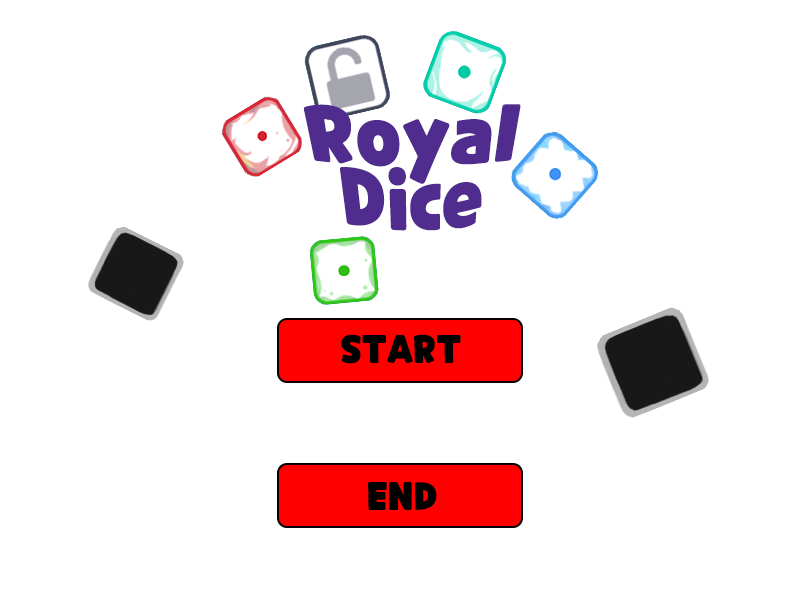
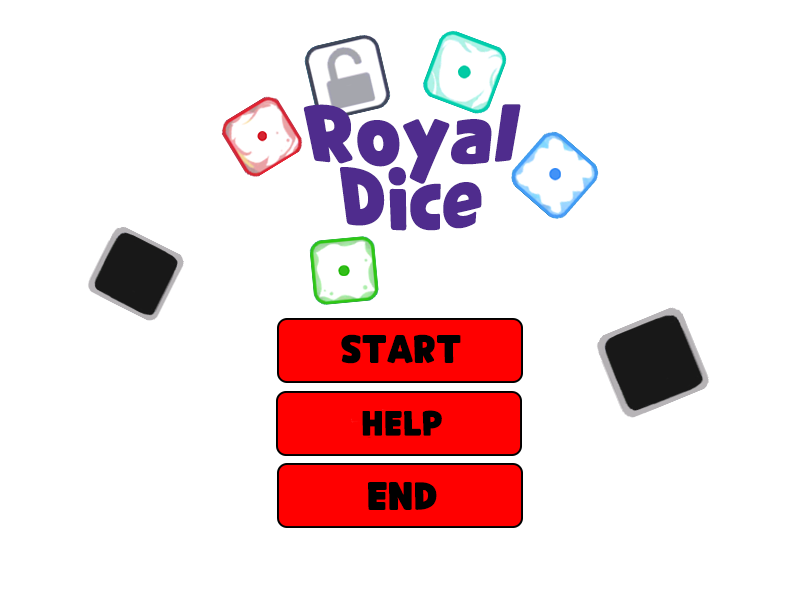
도움말 추가

Changed region(s): [[0.3438, 0.63, 0.6562, 0.78]]

diff --git a/2DGP/start_state.py b/2DGP/start_state.py
@@ -4,10 +4,13 @@ import main
 
 image = None
 music = None
+help_image = None
 time = 0
+draw_help = False
 
 def enter():
-    global image, music
+    global image, music, help_image
+    help_image = load_image('image\\help.png')
     image = load_image('image\\start_image.png')
     music = load_music('sound\\menu.mp3')
     music.set_volume(80)
@@ -31,18 +34,25 @@ def draw():
     global image
     clear_canvas()
     image.draw(400, 300)
+    if draw_help:
+        help_image.draw(400, 300)
     update_canvas()
     pass
 
 
 def handle_events():
+    global draw_help
     events = get_events()
     for event in events:
         if event.type == SDL_MOUSEBUTTONDOWN:
-            if 274 < event.x < 523 and 599 - 280 < event.y < 599 - 217:
+            if 274 < event.x < 523 and 599 - 280 < event.y < 599 - 217 and not draw_help:
                 game_framework.change_state(main)
-            elif 274 < event.x < 523 and 599 - 135 < event.y < 599 - 72:
+            elif 274 < event.x < 523 and 599 - 135 < event.y < 599 - 72 and not draw_help:
                 game_framework.quit()
+            elif 274 < event.x < 523 and 599 - 206 < event.y < 599 - 143 and not draw_help:
+                draw_help = True
+        elif event.type == SDL_KEYDOWN and event.key == SDLK_SPACE:
+            draw_help = False
     pass
 
 
